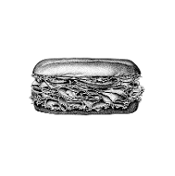
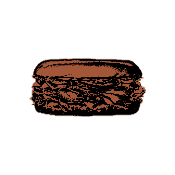
improve intellection animation

Changed region(s): [[0.1429, 0.3143, 0.8571, 0.6857]]

diff --git a/index.html b/index.html
@@ -160,6 +160,7 @@
 						<img src="images/intellection/2.png" class="layer2" alt="" />
 						<img src="images/intellection/3.png" class="layer3" alt="" />
 						<img src="images/intellection/4.png" class="layer4" alt="" />
+						<img src="images/intellection/5.png" class="layer5" alt="" />
 					</div>
 				</div>
 			</div>

diff --git a/style.css b/style.css
@@ -362,7 +362,8 @@ section p {
 	position: absolute;
 }
 
-#intellection .layer1 {
+#intellection .layer1,
+#intellection .layer5 {
 	width: 100%;
 	height: 100%;
 }
